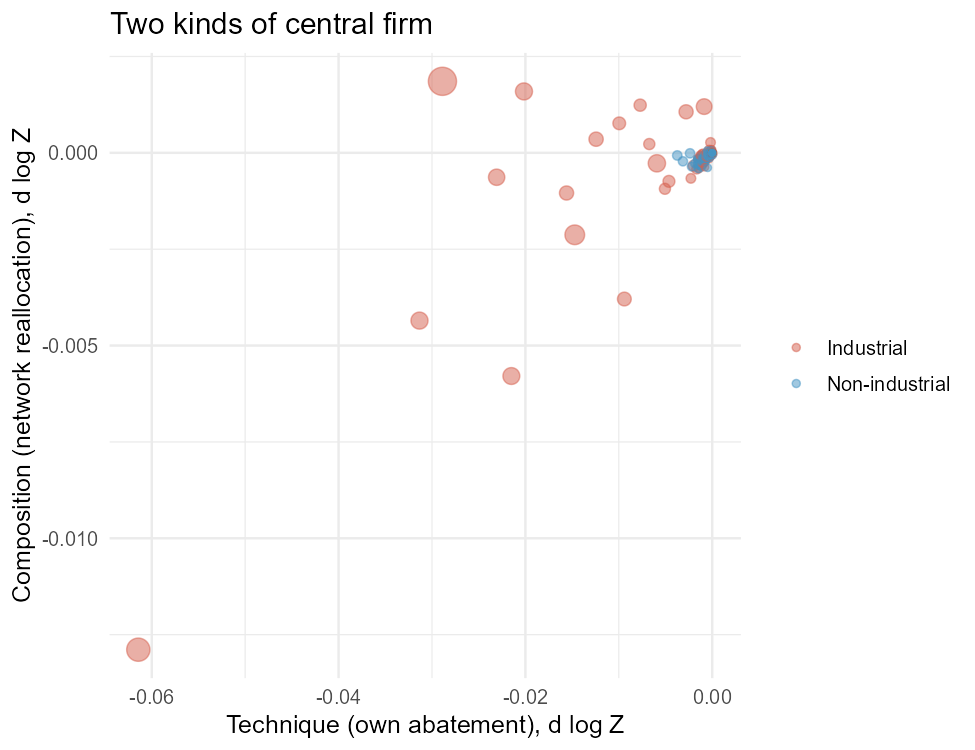
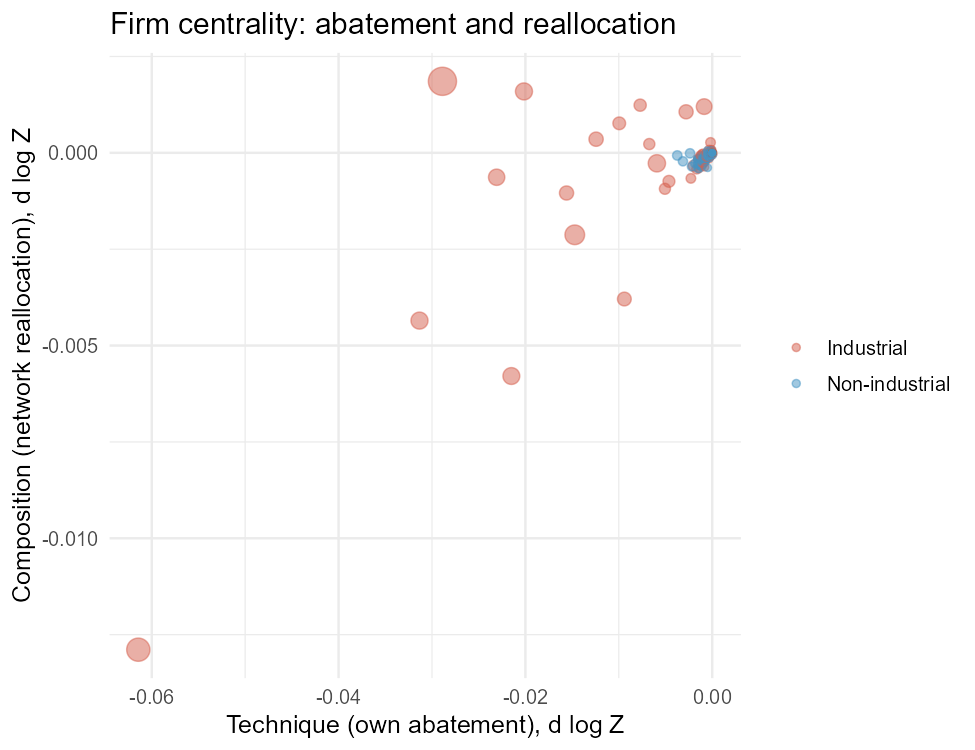
new centrality measure figures

Changed region(s): [[0.1231, 0.0, 0.6769, 0.0613]]

diff --git a/output_rmd/tables/centrality_descriptives.tex b/output_rmd/tables/centrality_descriptives.tex
@@ -11,6 +11,6 @@ Domar weight $\lambda_i$ ($\times 10^{-4}$) & 3.26 & 3.33 & 0.98 \\
 Upstream EI $(\Omega E)_i$ ($\times 10^{-4}$) & 5.43 & 0.78 & 6.94 \\
 Network-adj. EI $(\Psi E)_i$ ($\times 10^{-2}$) & 2.01 & 0.16 & 12.36 \\
 Share industrial & 0.42 & 0.45 & 0.93 \\
-Share ETS-regulated & 0.33 & 0.14 & 2.42 \\
+Share ETS-regulated & 0.33 & 0.14 & 2.41 \\
 \bottomrule
 \end{tabular}